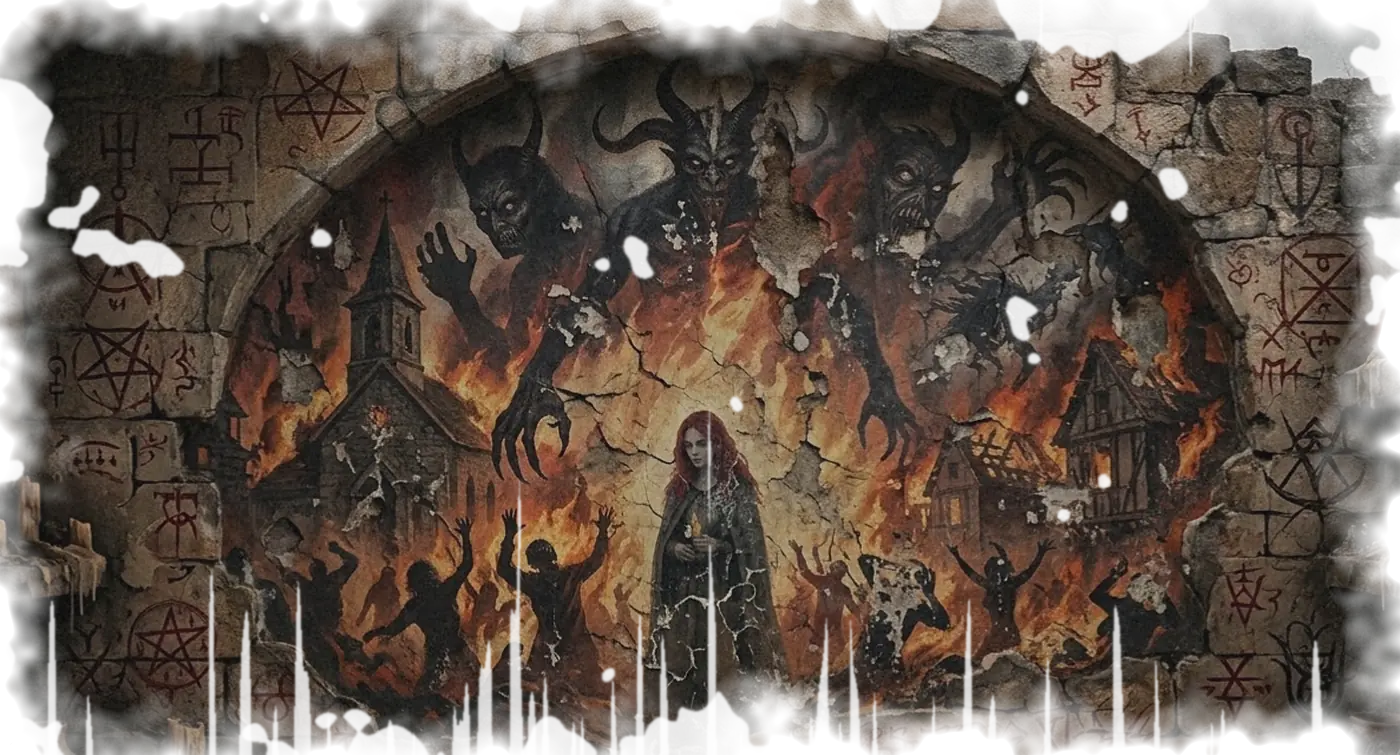
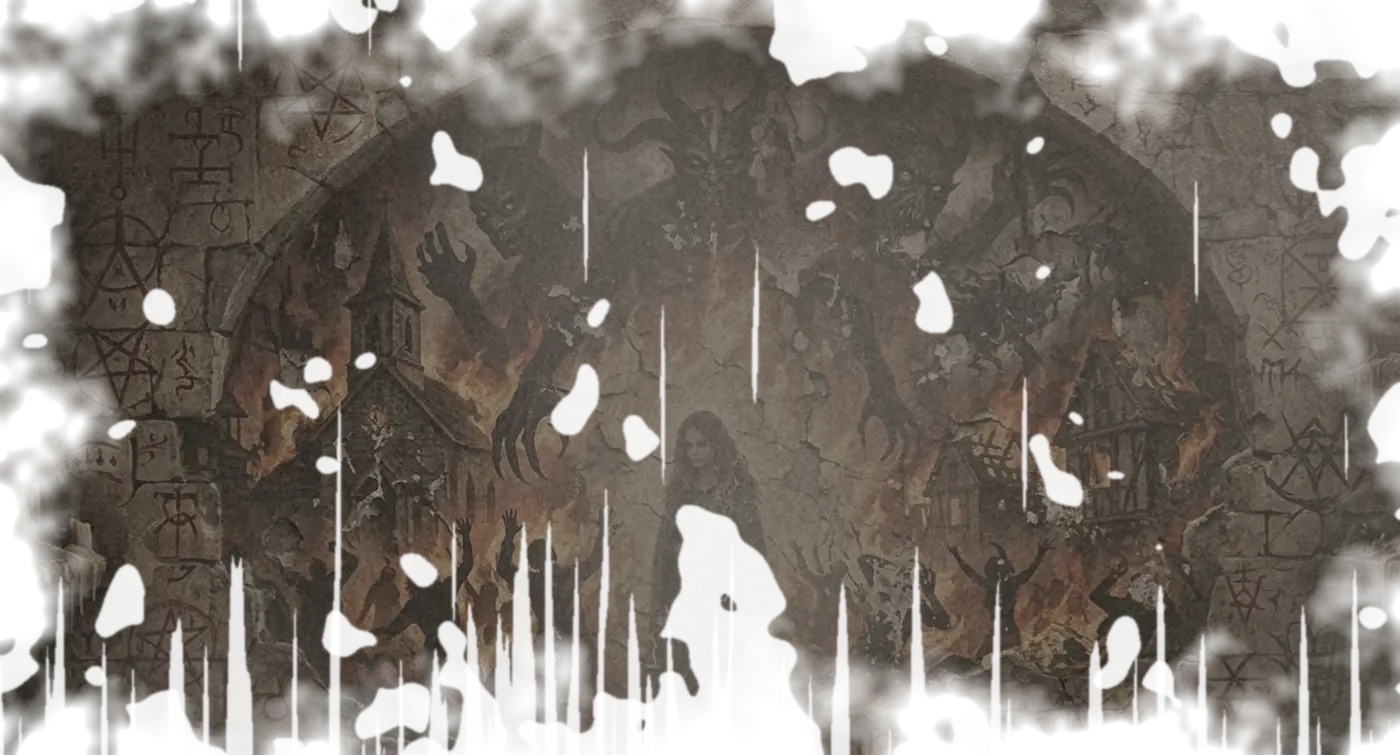
Murales: sala della folla col rito (sbiadito e usurato), trono nella torre, angeli nella cantina, teschio resta nella torre
Claude-Session: https://claude.ai/code/session_014dApnh5cQuMdZvTWDcVASP

diff --git a/sw.js b/sw.js
@@ -2,8 +2,8 @@
  * - Shell (html/css/js/vendor/icone): precache, cache-first. Nuova versione => nuovo SW "in attesa" => banner nell'app.
  * - Asset pesanti (modelli, texture, audio): cache separata; scaricati in background dopo l'installazione.
  * Le due versioni qui sotto le aggiorna tools/bump.sh a ogni modifica (hash del contenuto): non toccarle a mano. */
-const SHELL_VERSION = '821e27f5c9';   // @shell
-const ASSET_VERSION = 'e2ec85b609';   // @assets
+const SHELL_VERSION = 'a032ac9add';   // @shell
+const ASSET_VERSION = 'da7b274911';   // @assets
 const SHELL = 'ng-shell-' + SHELL_VERSION, ASSETS = 'ng-assets-' + ASSET_VERSION;
 const SHELL_FILES = ['./','./css/style.css','./icons/icon-180.png','./icons/icon-192.png','./icons/icon-32.png','./icons/icon-512.png','./icons/maskable-512.png','./index.html','./js/audio/audio.js','./js/events/ambient.js','./js/events/cellar.js','./js/events/combat.js','./js/events/dawn.js','./js/events/door.js','./js/events/glass.js','./js/events/hall.js','./js/events/morgue.js','./js/events/notes.js','./js/events/rats.js','./js/events/scare.js','./js/events/sorella.js','./js/events/tower.js','./js/events/tv.js','./js/events/ward.js','./js/events/warehouse.js','./js/main.js','./js/personal.js','./js/player/controls.js','./js/player/player.js','./js/pwa.js','./js/story.js','./js/ui/instability.js','./js/ui/rgbshift.js','./js/world/atmos.js','./js/world/blood.js','./js/world/bloodfont.js','./js/world/decor.js','./js/world/dust.js','./js/world/extra.js','./js/world/fingerwrite.js','./js/world/lights.js','./js/world/materials.js','./js/world/nun.js','./js/world/props.js','./js/world/redlight.js','./js/world/rooms.js','./js/world/tunnel.js','./manifest.webmanifest','./vendor/three/LICENSE','./vendor/three/Reflector.js','./vendor/three/loaders/GLTFLoader.js','./vendor/three/three.module.min.js','./vendor/three/utils/BufferGeometryUtils.js']; // @shellfiles
 const ASSET_FILES = ['./assets/audio/step0.mp3','./assets/audio/step1.mp3','./assets/audio/step2.mp3','./assets/audio/step3.mp3','./assets/audio/step4.mp3','./assets/models/ammo.glb','./assets/models/axe.glb','./assets/models/bin.glb','./assets/models/c_nurse.glb','./assets/models/c_occ.glb','./assets/models/cabinet.glb','./assets/models/cam.glb','./assets/models/can.glb','./assets/models/cart.glb','./assets/models/chair.glb','./assets/models/door.glb','./assets/models/gate.glb','./assets/models/hlamp.glb','./assets/models/hs_bed.glb','./assets/models/hw_door_1.glb','./assets/models/hw_wheel_chair.glb','./assets/models/kit_cables.glb','./assets/models/kit_fence.glb','./assets/models/kit_gutter.glb','./assets/models/kit_ind.glb','./assets/models/kit_manhole.glb','./assets/models/kit_pipes.glb','./assets/models/lamp.glb','./assets/models/m_bell.glb','./assets/models/m_diver.glb','./assets/models/m_nurse.glb','./assets/models/m_occ.glb','./assets/models/m_pirate.glb','./assets/models/m_root.glb','./assets/models/m_varka.glb','./assets/models/m_whisperer.glb','./assets/models/mg_chair.glb','./assets/models/mg_tool1.glb','./assets/models/mg_tool3.glb','./assets/models/mg_tool4.glb','./assets/models/mg_wall.glb','./assets/models/pistol.glb','./assets/models/rack.glb','./assets/models/rim.glb','./assets/models/seclight.glb','./assets/models/shelf.glb','./assets/models/slamp1.glb','./assets/models/slamp2.glb','./assets/models/sorella.glb','./assets/models/stool.glb','./assets/models/stove.glb','./assets/models/tank.glb','./assets/models/whisperer.glb','./assets/models/wlamp.glb','./assets/models/x_basket.glb','./assets/models/x_bust.glb','./assets/models/x_clock.glb','./assets/models/x_gnome.glb','./assets/models/x_lion.glb','./assets/models/x_micro.glb','./assets/models/x_rat.glb','./assets/models/x_screen.glb','./assets/models/x_spray.glb','./assets/models/x_tv.glb','./assets/models/x_watch.glb','./assets/tex/bath_bg.jpg','./assets/tex/blood_font.png','./assets/tex/blood_real.png','./assets/tex/brick_c.jpg','./assets/tex/brick_n.jpg','./assets/tex/brick_orm.jpg','./assets/tex/floorA_c.jpg','./assets/tex/floorA_n.jpg','./assets/tex/floorA_orm.jpg','./assets/tex/floorB_c.jpg','./assets/tex/floorB_n.jpg','./assets/tex/floorB_orm.jpg','./assets/tex/foot_l.png','./assets/tex/foot_r.png','./assets/tex/hall_bg.jpg','./assets/tex/handA.png','./assets/tex/handC.png','./assets/tex/mg_floor.jpg','./assets/tex/night_bg.jpg','./assets/tex/pic_anatomy.webp','./assets/tex/pic_charcoal.webp','./assets/tex/pic_corridor.webp','./assets/tex/pic_drawing.jpg','./assets/tex/pic_drawing2.webp','./assets/tex/pic_elisa.jpg','./assets/tex/pic_family.webp','./assets/tex/pic_mural_angel.webp','./assets/tex/pic_mural_angels.webp','./assets/tex/pic_mural_cathedral.webp','./assets/tex/pic_mural_corridor.webp','./assets/tex/pic_mural_demon.webp','./assets/tex/pic_mural_eyes.webp','./assets/tex/pic_mural_faces.webp','./assets/tex/pic_mural_fire.webp','./assets/tex/pic_mural_inferno.webp','./assets/tex/pic_mural_ritual.webp','./assets/tex/pic_mural_skull.webp','./assets/tex/pic_mural_throne.webp','./assets/tex/pic_mural_wide.webp','./assets/tex/pic_saint.webp','./assets/tex/pic_window.webp','./assets/tex/pic_yana.jpg','./assets/tex/rust_c.jpg','./assets/tex/rust_n.jpg','./assets/tex/rust_orm.jpg','./assets/tex/stone_c.jpg','./assets/tex/stone_n.jpg','./assets/tex/stone_orm.jpg','./assets/tex/ward_ceiling.jpg','./assets/tex/wr_elisa_1.png','./assets/tex/wr_elisa_2.png','./assets/tex/wr_elisa_3.png','./assets/tex/wr_elisa_4.png','./assets/tex/wr_elisa_h.png','./assets/tex/wr_elisa_m.png','./assets/tex/wr_elisa_o.png','./assets/tex/wr_sigil.png','./assets/tex/wr_std_c2.png','./assets/tex/wr_std_h.png','./assets/tex/wr_std_m.png','./assets/tex/wr_std_o.png','./assets/tex/wr_std_t1.png','./assets/tex/wr_std_t3.png','./assets/tex/wr_std_w4.png','./assets/tex/wr_yana_1.png','./assets/tex/wr_yana_2.png','./assets/tex/wr_yana_3.png','./assets/tex/wr_yana_4.png','./assets/tex/wr_yana_h.png','./assets/tex/wr_yana_m.png','./assets/tex/wr_yana_o.png']; // @assetfiles

diff --git a/js/main.js b/js/main.js
@@ -200,11 +200,13 @@ async function enter() {
     writingDecals(scene, [{ ...pic('mural_wide', 3.043, 1.38, 1.1, -28.5, '-x', 5.0, 0), rot: 0, a: 0.94 }]);                    // tunnel, parete destra
     writingDecals(wh.group, [{ ...pic('mural_corridor', 1.2959, -5.96, 3.0, WZ - 18.6, '+x', 4.7, 0), rot: 0, a: 0.94 }]);              // magazzino, parete sinistra
     writingDecals(wh.group, [{ ...pic('mural_demon', 1.1765, 5.94, 3.2, WZ - 12.6, '-x', 4.7, 0), rot: 0, a: 0.94 }]);              // magazzino, parete destra (di fronte al gruppo sopra il letto)
-    writingDecals(hall.group, [{ ...pic('mural_throne', 1.012, 5.97, 3.1, -62.95, '-x', 4.7, 0), rot: 0, a: 0.94, glow: 0.2 }]);              // sala della folla: un solo murale, vicino all'ingresso (il resto e' troppo buio per vederli)
+    writingDecals(hall.group, [{ ...pic('mural_ritual', 1.8534, 5.97, 2.6, -62.95, '-x', 4.7, 0), rot: 0, a: 0.94, glow: 0.14 }]);              // sala della folla: un solo murale (rito, sbiadito e usurato), vicino all'ingresso
     // Torre: due murali ai lati della porta in fondo (gli ultimi che vedi) e tre in alto sui muri lunghi, sopra la stufa. Magazzino: due in alto (sopra scaffali e tubi).
-    writingDecals(tower.group, [{ ...pic('mural_angels', 1.0, -3.85, 3.6, TZ - 17.97, '+z', 3.8, 0), rot: 0, a: 0.94, glow: 0.2 }, { ...pic('mural_skull', 1.0, 3.85, 3.6, TZ - 17.97, '+z', 3.8, 0), rot: 0, a: 0.94, glow: 0.2 },
+    writingDecals(tower.group, [{ ...pic('mural_throne', 1.012, -3.85, 3.6, TZ - 17.97, '+z', 3.8, 0), rot: 0, a: 0.94, glow: 0.2 }]);   // torre, in fondo a sinistra della porta: il trono con la folla in ginocchio
+    writingDecals(tower.group, [{ ...pic('mural_skull', 1.0, 3.85, 3.6, TZ - 17.97, '+z', 3.8, 0), rot: 0, a: 0.94, glow: 0.2 },
       { ...pic('mural_inferno', 0.9049, -6.94, 5.0, TZ - 12.6, '+x', 3.07, 0), rot: 0, a: 0.94, glow: 0.2 }, { ...pic('mural_eyes', 2.368, -6.94, 5.0, TZ - 6.6, '+x', 4.7, 0), rot: 0, a: 0.94, glow: 0.2 }, { ...pic('mural_faces', 1.2526, 6.94, 5.0, TZ - 6.6, '-x', 4.2, 0), rot: 0, a: 0.94, glow: 0.2 }]);
-    writingDecals(wh.group, [{ ...pic('mural_ritual', 1.8534, 5.94, 4.4, WZ - 18.6, '-x', 4.7, 0), rot: 0, a: 0.94, glow: 0.2 }, { ...pic('mural_fire', 1.2373, -5.94, 4.4, WZ - 24.6, '+x', 3.2, 0), rot: 0, a: 0.94, glow: 0.2 }]);
+    writingDecals(cellar.group, [{ ...pic('mural_angels', 1.0, -3.94, 2.2, CZ - 5.5, '+x', 3.0, 0), rot: 0, a: 0.94, glow: 0.2 }]);   // cantina, parete sinistra prima dello specchio: gli angeli senza volto
+    writingDecals(wh.group, [{ ...pic('mural_fire', 1.2373, -5.94, 4.4, WZ - 24.6, '+x', 3.2, 0), rot: 0, a: 0.94, glow: 0.2 }]);
     writingDecals(wh.group, [{ ...pic('mural_angel', 1.808, 5.94, 3.0, WZ - 24.6, '-x', 4.7, 0), rot: 0, a: 0.94 }]);              // magazzino, parete destra
     writingDecals(tower.group, [{ ...pic('mural_cathedral', 1.351, 6.94, 3.2, TZ - 12.6, '-x', 4.7, 0), rot: 0, a: 0.94 }]);       // torre, parete destra
     writingDecals(wh.group, [pic('corridor', 1.369, -5.96, 1.5, WZ - 11.4, '+x', 0.85, 0.02), pic('window', 1.233, -5.96, 1.5, WZ - 12.55, '+x', 0.85, -0.02), pic('saint', 0.789, -5.96, 1.5, WZ - 13.65, '+x', 0.62, 0.02)])
